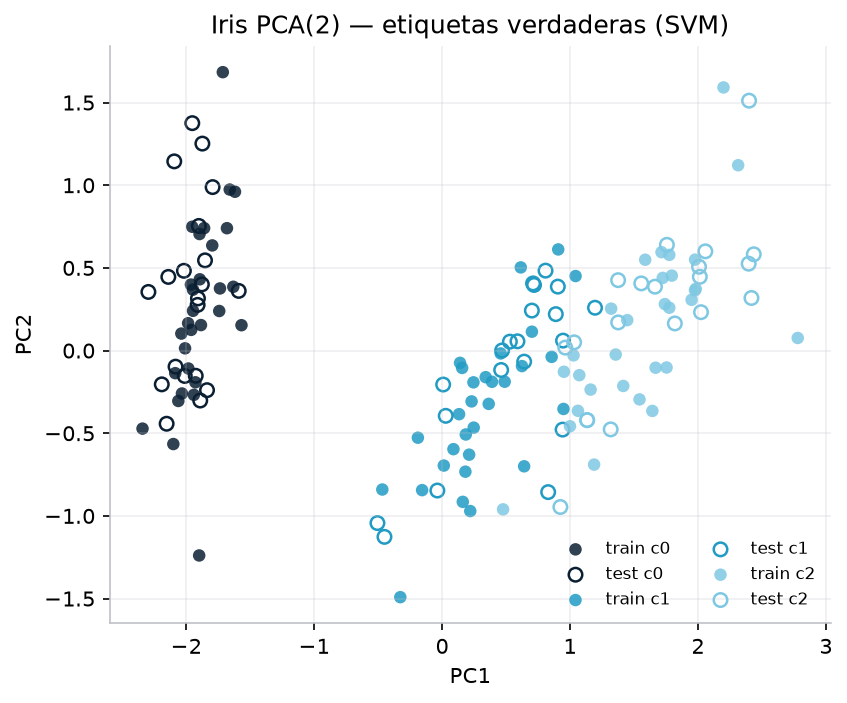
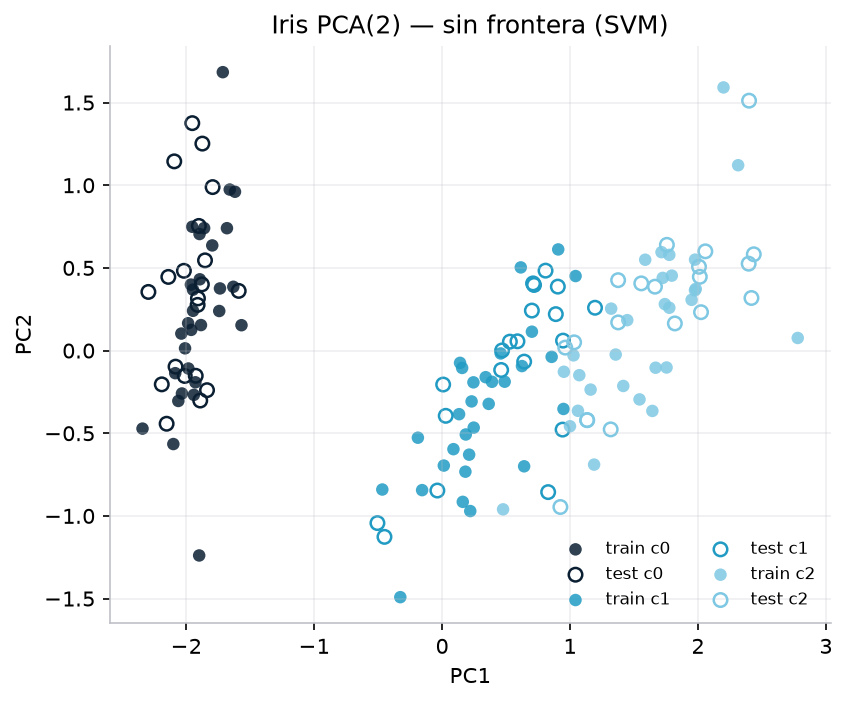
Storytelling: frontera con modelo ya fit + preds del notebook
Scatter sin/con frontera; malla usa svm_model.predict (u homólogo);
puntos test usan *_preds ya evaluados; sin reentrenar; show + paleta UNIR.

Changed region(s): [[0.2456, 0.0, 0.8595, 0.0597]]

diff --git a/Notebooks/lib/storytelling.py b/Notebooks/lib/storytelling.py
@@ -8,13 +8,15 @@ in the notebook — they never call ``model.predict`` again.
 from __future__ import annotations
 
 from pathlib import Path
-from typing import Optional, Sequence
+from typing import Callable, Optional, Sequence
 
 import matplotlib.pyplot as plt
 import networkx as nx
 import numpy as np
-from matplotlib.colors import LinearSegmentedColormap
+from matplotlib.colors import LinearSegmentedColormap, ListedColormap
 from sklearn.decomposition import PCA
+
+PredictFn = Callable[[np.ndarray], np.ndarray]
 
 # Paleta UNIR: azules + grises (misma familia que Results_*)
 UNIR_NAVY = "#0B1F33"
@@ -106,91 +108,91 @@ def _pca2(X_train, X_test):
     pca = PCA(n_components=2, random_state=123)
     tr2 = pca.fit_transform(X_train)
     te2 = pca.transform(X_test)
-    return tr2, te2
+    return pca, tr2, te2
 
 
-def plot_pca_true_and_pred(
+def plot_pca_true_and_boundary(
     X_train,
     y_train,
     X_test,
     y_test,
     y_pred_test,
+    predict_fn: PredictFn,
     figures_dir: Path,
     stem: str,
     title_model: str,
     dataset_tag: str,
 ) -> list[Path]:
-    """PCA(2): (1) etiquetas verdaderas (2) predicciones ya evaluadas en el notebook.
+    """PCA(2): scatter sin frontera + scatter con frontera del modelo ya entrenado.
 
-    No llama al modelo: solo proyecta y pinta ``y_pred_test``.
+    - ``y_pred_test``: predicciones **ya calculadas** en el notebook (no se re-evalúa el test).
+    - ``predict_fn``: ``modelo.predict`` del notebook (solo para pintar la malla 2D);
+      no se reentrena ni se crea otro clasificador.
+    - PCA solo proyecta para visualizar.
     """
     y_train = _as_numpy(y_train).astype(int)
     y_test = _as_numpy(y_test).astype(int)
     y_pred_test = _as_numpy(y_pred_test).astype(int)
-    tr2, te2 = _pca2(X_train, X_test)
+    X_train_np = _as_numpy(X_train).astype(float)
+    X_test_np = _as_numpy(X_test).astype(float)
+    pca, tr2, te2 = _pca2(X_train_np, X_test_np)
     classes = np.unique(np.concatenate([y_train, y_test]))
+    listed = ListedColormap([_class_color(c) for c in classes])
 
     # --- sin frontera: etiquetas verdaderas ---
     fig, ax = plt.subplots(figsize=(6.2, 5.0), dpi=140)
     for c in classes:
         col = _class_color(c)
         ax.scatter(
-            tr2[y_train == c, 0],
-            tr2[y_train == c, 1],
-            s=36,
-            color=col,
-            alpha=0.85,
-            label=f"train c{c}",
-            edgecolors="none",
+            tr2[y_train == c, 0], tr2[y_train == c, 1],
+            s=36, color=col, alpha=0.85, label=f"train c{c}", edgecolors="none",
         )
         ax.scatter(
-            te2[y_test == c, 0],
-            te2[y_test == c, 1],
-            s=42,
-            facecolors="none",
-            edgecolors=col,
-            linewidths=1.2,
-            label=f"test c{c}",
+            te2[y_test == c, 0], te2[y_test == c, 1],
+            s=42, facecolors="none", edgecolors=col, linewidths=1.2, label=f"test c{c}",
         )
     ax.set_xlabel("PC1")
     ax.set_ylabel("PC2")
-    ax.set_title(f"{dataset_tag} PCA(2) — etiquetas verdaderas ({title_model})")
+    ax.set_title(f"{dataset_tag} PCA(2) — sin frontera ({title_model})")
     ax.legend(fontsize=8, frameon=False, ncol=2)
     _style_axes(ax)
     p1 = _savefig(fig, figures_dir / f"{stem}_{dataset_tag.lower()}_pca_scatter.png")
 
-    # --- con resultado del clasificador: predicciones existentes ---
+    # --- con frontera: malla con el predict del modelo YA fit + puntos test con preds existentes ---
+    pad = 0.35
+    xx, yy = np.meshgrid(
+        np.linspace(tr2[:, 0].min() - pad, tr2[:, 0].max() + pad, 220),
+        np.linspace(tr2[:, 1].min() - pad, tr2[:, 1].max() + pad, 220),
+    )
+    grid_x = pca.inverse_transform(np.c_[xx.ravel(), yy.ravel()])
+    z = np.asarray(predict_fn(grid_x)).astype(int).reshape(xx.shape)
+
     fig, ax = plt.subplots(figsize=(6.2, 5.0), dpi=140)
+    ax.contourf(
+        xx, yy, z,
+        levels=np.arange(z.min(), z.max() + 2) - 0.5,
+        cmap=listed, alpha=0.28,
+    )
+    ax.contour(xx, yy, z, levels=np.sort(classes) + 0.5, colors=UNIR_NAVY, linewidths=0.7, alpha=0.55)
     for c in classes:
         col = _class_color(c)
-        mask = y_pred_test == c
         ax.scatter(
-            te2[mask, 0],
-            te2[mask, 1],
-            s=48,
-            color=col,
-            alpha=0.9,
-            label=f"pred c{c}",
-            edgecolors="white",
-            linewidths=0.4,
+            te2[y_test == c, 0], te2[y_test == c, 1],
+            s=48, color=col, alpha=0.95, label=f"test c{c}",
+            edgecolors="white", linewidths=0.4,
         )
     wrong = y_pred_test != y_test
     if np.any(wrong):
         ax.scatter(
-            te2[wrong, 0],
-            te2[wrong, 1],
-            s=100,
-            facecolors="none",
-            edgecolors=UNIR_NAVY,
-            linewidths=1.6,
-            label="error test",
+            te2[wrong, 0], te2[wrong, 1],
+            s=100, facecolors="none", edgecolors=UNIR_NAVY, linewidths=1.6, label="error (preds notebook)",
         )
     ax.set_xlabel("PC1")
     ax.set_ylabel("PC2")
-    ax.set_title(f"{dataset_tag} PCA(2) — predicciones test ({title_model})")
+    ax.set_title(f"{dataset_tag} PCA(2) — con frontera ({title_model})")
     ax.legend(fontsize=8, frameon=False)
     _style_axes(ax)
-    p2 = _savefig(fig, figures_dir / f"{stem}_{dataset_tag.lower()}_pca_pred.png")
+    p2 = _savefig(fig, figures_dir / f"{stem}_{dataset_tag.lower()}_pca_boundary.png")
     return [p1, p2]
 
 
@@ -200,12 +202,13 @@ def plot_iris_pca_story(
     X_test,
     y_test,
     y_pred_test,
+    predict_fn: PredictFn,
     figures_dir: Path,
     stem: str,
     title_model: str,
 ) -> list[Path]:
-    return plot_pca_true_and_pred(
-        X_train, y_train, X_test, y_test, y_pred_test,
+    return plot_pca_true_and_boundary(
+        X_train, y_train, X_test, y_test, y_pred_test, predict_fn,
         figures_dir, stem, title_model, dataset_tag="Iris",
     )
 
@@ -244,12 +247,13 @@ def plot_bs_pca_story(
     X_test,
     y_test,
     y_pred_test,
+    predict_fn: PredictFn,
     figures_dir: Path,
     stem: str,
     title_model: str,
 ) -> list[Path]:
-    return plot_pca_true_and_pred(
-        X_train, y_train, X_test, y_test, y_pred_test,
+    return plot_pca_true_and_boundary(
+        X_train, y_train, X_test, y_test, y_pred_test, predict_fn,
         figures_dir, stem, title_model, dataset_tag="BS",
     )
 
@@ -285,8 +289,9 @@ def plot_ising_story(
     X_test=None,
     y_test=None,
     y_pred_test=None,
+    predict_fn: Optional[PredictFn] = None,
 ) -> list[Path]:
-    """Spin ⟨Z⟩ heatmap + chain + optional PCA true/pred (reuses notebook preds)."""
+    """Spin ⟨Z⟩ heatmap + chain + PCA sin/con frontera (modelo ya fit del notebook)."""
     saved: list[Path] = []
     X_train_raw = _as_numpy(X_train_raw).astype(float)
     y_train = _as_numpy(y_train).astype(int)
@@ -324,10 +329,11 @@ def plot_ising_story(
         and X_test is not None
         and y_test is not None
         and y_pred_test is not None
+        and predict_fn is not None
     ):
         saved.extend(
-            plot_pca_true_and_pred(
-                X_train, y_train, X_test, y_test, y_pred_test,
+            plot_pca_true_and_boundary(
+                X_train, y_train, X_test, y_test, y_pred_test, predict_fn,
                 figures_dir, stem, title_model, dataset_tag="Ising",
             )
         )
